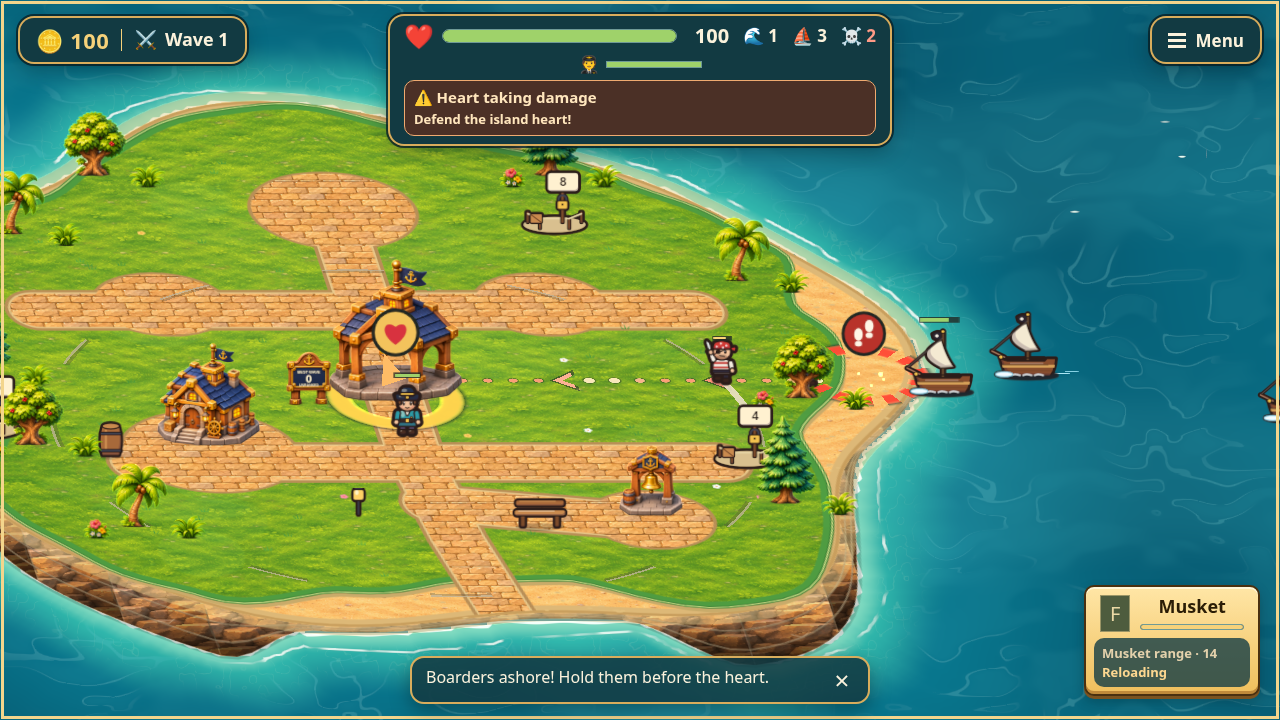
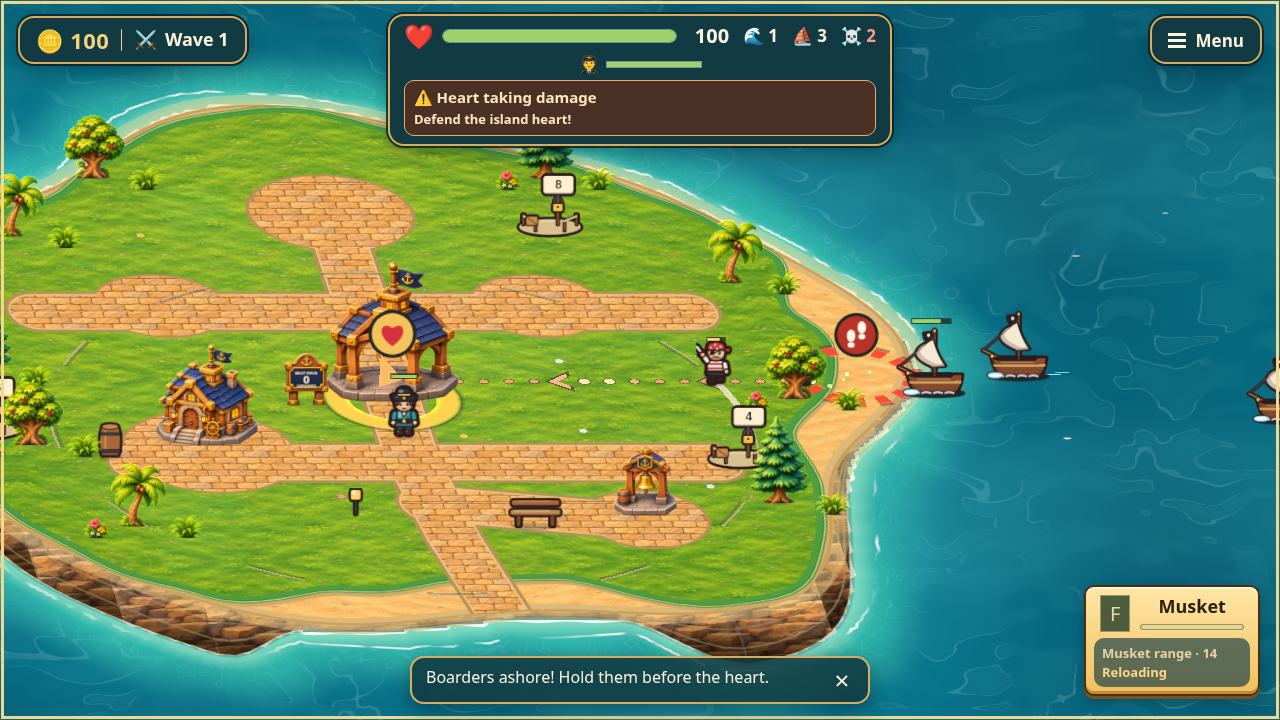
docs: refresh PR screenshots and final landscape evidence

diff --git a/docs/evidence/CF1-captain-combat-feedback/README.md b/docs/evidence/CF1-captain-combat-feedback/README.md
@@ -4,11 +4,12 @@ What this is: review evidence and a code walkthrough for [task #453](https://git
 Who uses it: Ianno and the human peer reviewer, before publication and merge.
 
 Branch: `feat/captain-combat-feedback`. PR: [#475](https://github.com/Nilsnova/The-Great-Plot-Twist/pull/475).
-Current screenshot source: `e0db6e74`; runtime integration: `c03b3eb8`, with main `37eb70fa`.
+Current screenshot source: `29736a89`; runtime integration: `c03b3eb8`, with main through `db573347`.
+Landscape control-column follow-up: `21440b26`; this affects neither desktop nor portrait capture dimensions.
 This revision follows Ianno's request for a quieter radius and visual-only shot confirmation.
 After publication, main introduced a new village projection and HUD; the task branch
 was reconciled with those changes. CF1's decision is D066 (main already owns D061–D065).
-The new village artwork comes from main; this feature changes only combat feedback.
+The new village artwork and WebP shipping update come from main; this feature changes only combat feedback.
 The original blue design and previous parchment captures remain as historical evidence.
 Ianno reviewed runtime `79bb6762` before publication; current projection-integration changes require human peer review.
 All three explain-back questions are completed. Ianno reviewed the changes and
@@ -97,8 +98,10 @@ is retained only as superseded review history; it is absent from the current gam
 - [Projection/renderer/HUD tests](main-integration/integration-tests.txt): **89 passed across 12 files**.
 - [Related CF1/projection tests](main-integration/additional-tests.txt): **72 passed across 8 files**.
 - [Layout rerun](main-integration/landscape-tests.txt): **10 passed across 3 files** after compacting the danger row on short landscape displays.
+- [Expanded fire-control regression](main-integration/reserved-column-tests.txt): **11 passed across 3 files**. A real toast stays at least 8px left of expanded Fire bombs feedback at 844×390; its [expected failure before the fix](main-integration/reserved-column-before.txt) is retained. Short landscape layouts reserve the fire-control column even when the range panel grows.
+- [Upstream art-shipping follow-up](main-integration/art-shipping-tests.txt): **13 passed across 4 files**, including decode/shipped-output contracts and combat-overlay projection. These overlap earlier suites and are not added to their totals.
 - [Actual-game checks](main-integration/native-feedback.txt): **14 checks pass**, six fresh desktop/phone captures. [Report/provenance](main-integration/after-report.json).
-- [Overlap audit](main-integration/overlaps.txt): **21 state/viewport checks pass**; three first-wave-hint checks are skipped for a later wave under main's corrected hint rule. The first run found a landscape toast/action overlap, recorded [before the fix](main-integration/overlaps-before.txt); the compact warning row keeps all warning text visible.
+- [Overlap audit](main-integration/overlaps.txt): **21 state/viewport checks pass**; three first-wave-hint checks are skipped for a later wave under main's corrected hint rule. The first run found a landscape toast/action overlap, recorded [before the fix](main-integration/overlaps-before.txt); the compact warning row keeps all warning text visible, and the expanded fire-control regression additionally verifies horizontal toast separation.
 - [Build/spoiler guard](main-integration/build.txt), [budget summary](main-integration/budget-summary.json) and [reviewed text](main-integration/reviewed-text.txt) pass, with **0 text errors / 8 report-only findings**.
 - [Projection tests before adaptation](main-integration/projection-before.txt): three expected failures demonstrate the old hardcoded projection is rejected. Existing main renderer pooling, wall connections, projected muzzle tests and native HUD disclosures are preserved. The latest image helpers use declared returning-device history; earlier queued-onboarding failures are retained [here](main-integration/capture-setup-before.txt).
 

diff --git a/docs/handoff/CF1-PR-request.md b/docs/handoff/CF1-PR-request.md
@@ -20,9 +20,10 @@ active play and later returns can start a new warning episode.
 
 ## Current-main integration
 
-The published PR was reconciled with main `37eb70fa` after GitHub reported conflicts.
+The published PR was reconciled with main through `db573347` after GitHub reported conflicts.
+This retains the upstream WebP art-shipping update. Fresh screenshots were captured from `29736a89`.
 The overlay now uses the shared ground projection; the danger row spans the new HUD
-and compacts in landscape. Main's renderer pooling, wall connections and native HUD
+and compacts in landscape. Short landscape toasts also reserve the expanded fire-control column (`21440b26`). Main's renderer pooling, wall connections and native HUD
 behavior are retained. CF1 is D066 because main already owns D061–D065. Ianno reviewed
 runtime `79bb6762` before publication; these later integration changes need current
 human peer review. The PR remains unmerged.
@@ -48,7 +49,7 @@ The updated village artwork comes from current main, separately from this combat
 
 ## Checks and evidence
 
-- Current-main integration: **89 tests / 12 files** plus **72 tests / 8 files** passed; a later landscape-layout rerun passed **10 tests / 3 files**.
+- Current-main integration: **89 tests / 12 files** plus **72 tests / 8 files** passed; a later landscape-layout rerun passed **10 tests / 3 files**. The expanded fire-control follow-up passed **11 tests / 3 files**; upstream art-shipping/overlay contracts passed **13 tests / 4 files** (overlapping suites, not additional unique totals).
 - Fresh native feedback: **14 checks**, six new screenshots; overlap audit: **21 checks pass** (later-wave hint states are skipped by current main's rule).
 - Current build/spoiler guard, budget and reviewed text checks pass. Projection and initial landscape failures plus fixes are retained in the linked evidence.
 

diff --git a/docs/STATUS.md b/docs/STATUS.md
@@ -1162,3 +1162,6 @@ Ianno / 18 Nov 2026 — CF1 PR #475 current-main integration. GitHub reported co
 
 
 Ianno / 18 Nov 2026 — CF1 PR #475 integration verification completed on `feat/captain-combat-feedback`. Main `37eb70fa` is a parent of the task branch; range/marker projection uses the shared helper, current HUD and renderer changes are preserved, and CF1 is D066. Verified 89 integration tests plus 72 related tests, a 10-test landscape rerun, 14 native game checks, build/spoiler/budget and 0 reviewed-text errors. The first overlap run found a landscape toast/fire-control intersection; compacting the warning row while retaining all text passes 21 final checks (current main correctly skips later-wave first-hint states). Fresh desktop/phone captures and provenance are attached to the PR evidence. No fresh full-suite or live-device claim; all three explain-back questions and publication authorization stay complete. Current human peer review remains required; no PR merge.
+
+
+Ianno / 18 Nov 2026 — CF1 PR #475 final publication refresh. Reconciled the task branch with main through `db573347`, preserving its WebP art shipping. Fresh six desktop/phone captures from `29736a89` pass 14 native game checks; art-shipping/overlay follow-up passes 13 tests across four files. An expanded-range regression first demonstrated insufficient toast separation at 844×390; reserving the fire-control column (`21440b26`) passes 11 layout tests across three files and 21 overlap checks. Build/spoiler and budget pass. These are overlapping scoped runs, not a new full-suite claim. Evidence retains the failure and fixture provenance. All three explain-back answers and publication authorization remain complete. PR #475 is open; independent current human peer review is next, with no merge or deployment.

diff --git a/docs/DECISIONS.md b/docs/DECISIONS.md
@@ -1168,3 +1168,8 @@ After completing all three explain-back questions and reviewing the branch, Iann
 ### CF1 current-main integration · 2026-11-18
 
 PR #475 was explicitly authorized and opened, then GitHub reported conflicts with newer main `37eb70fa`. Reconcile the task branch with main while preserving the new native HUD, village projection, wall connections and renderer pooling. CF1 now uses the same `projectGround`/`projectGroundVector` and cached `groundShapeMatrix()` rather than its historical .72-only transform. Arcs, direction cap and danger pointer follow the saved logical coordinates under D064's shared display mapping. Add the danger strip to the HUD grid's full-width rows. Main already owns D061–D065, so the CF1 decision is renumbered D066; earlier CF1 STATUS entries citing D061 are historical branch-local labels. Refresh projection/native evidence and current peer review before any merge. No merge into main, live activation or deployment is authorized.
+
+
+### CF1 landscape control-column follow-up · 2026-11-18
+
+In active waves at widths 600–900px and heights at most 500px, reserve the rightmost 300px from toast placement. Expanding contextual range raises the bottom-anchored fire control, so vertical compacting alone does not ensure separation. The real toast/expanded Fire bombs browser regression requires an eight-pixel gap; modal placement retains its existing priority. Desktop and portrait captures are unaffected. Main through `db573347` and its WebP shipping are retained. No merge or deployment is authorized.

diff --git a/specs/CF1-captain-combat-feedback.md b/specs/CF1-captain-combat-feedback.md
@@ -79,3 +79,5 @@ Publication gate completed: Ianno stated "i reviewed, open PR" on 18 November 20
 ## Current-main integration for PR #475
 
 Main `37eb70fa` introduced D064's shared ground projection, native combat HUD updates, wall connections and renderer pooling after CF1's original base. Use `projectGround`, `projectGroundVector` and cached `groundShapeMatrix()` for all range origins, arc/cap transforms and danger directions. Tests invert actual transformed geometry back to logical XZ to verify true range. The danger row spans the new HUD grid. Preserve all newer main renderer, HUD, input and performance changes. CF1's decision is now D066 because main already owns D061–D065. PR #475 remains unmerged; the integration changes and refreshed screenshots require current human peer review.
+
+Latest publication refresh includes main through `db573347` (WebP art shipping). Screenshot source is `29736a89`; landscape control-column follow-up `21440b26` reserves room for expanded range feedback beside real toasts. Scoped follow-up: 11 layout tests, 13 art/overlay tests, 14 native game checks and 21 overlap checks pass; build/spoiler/budget pass. These overlapping checks do not represent a fresh full-suite run. PR #475 is open and awaits current independent human peer review.
